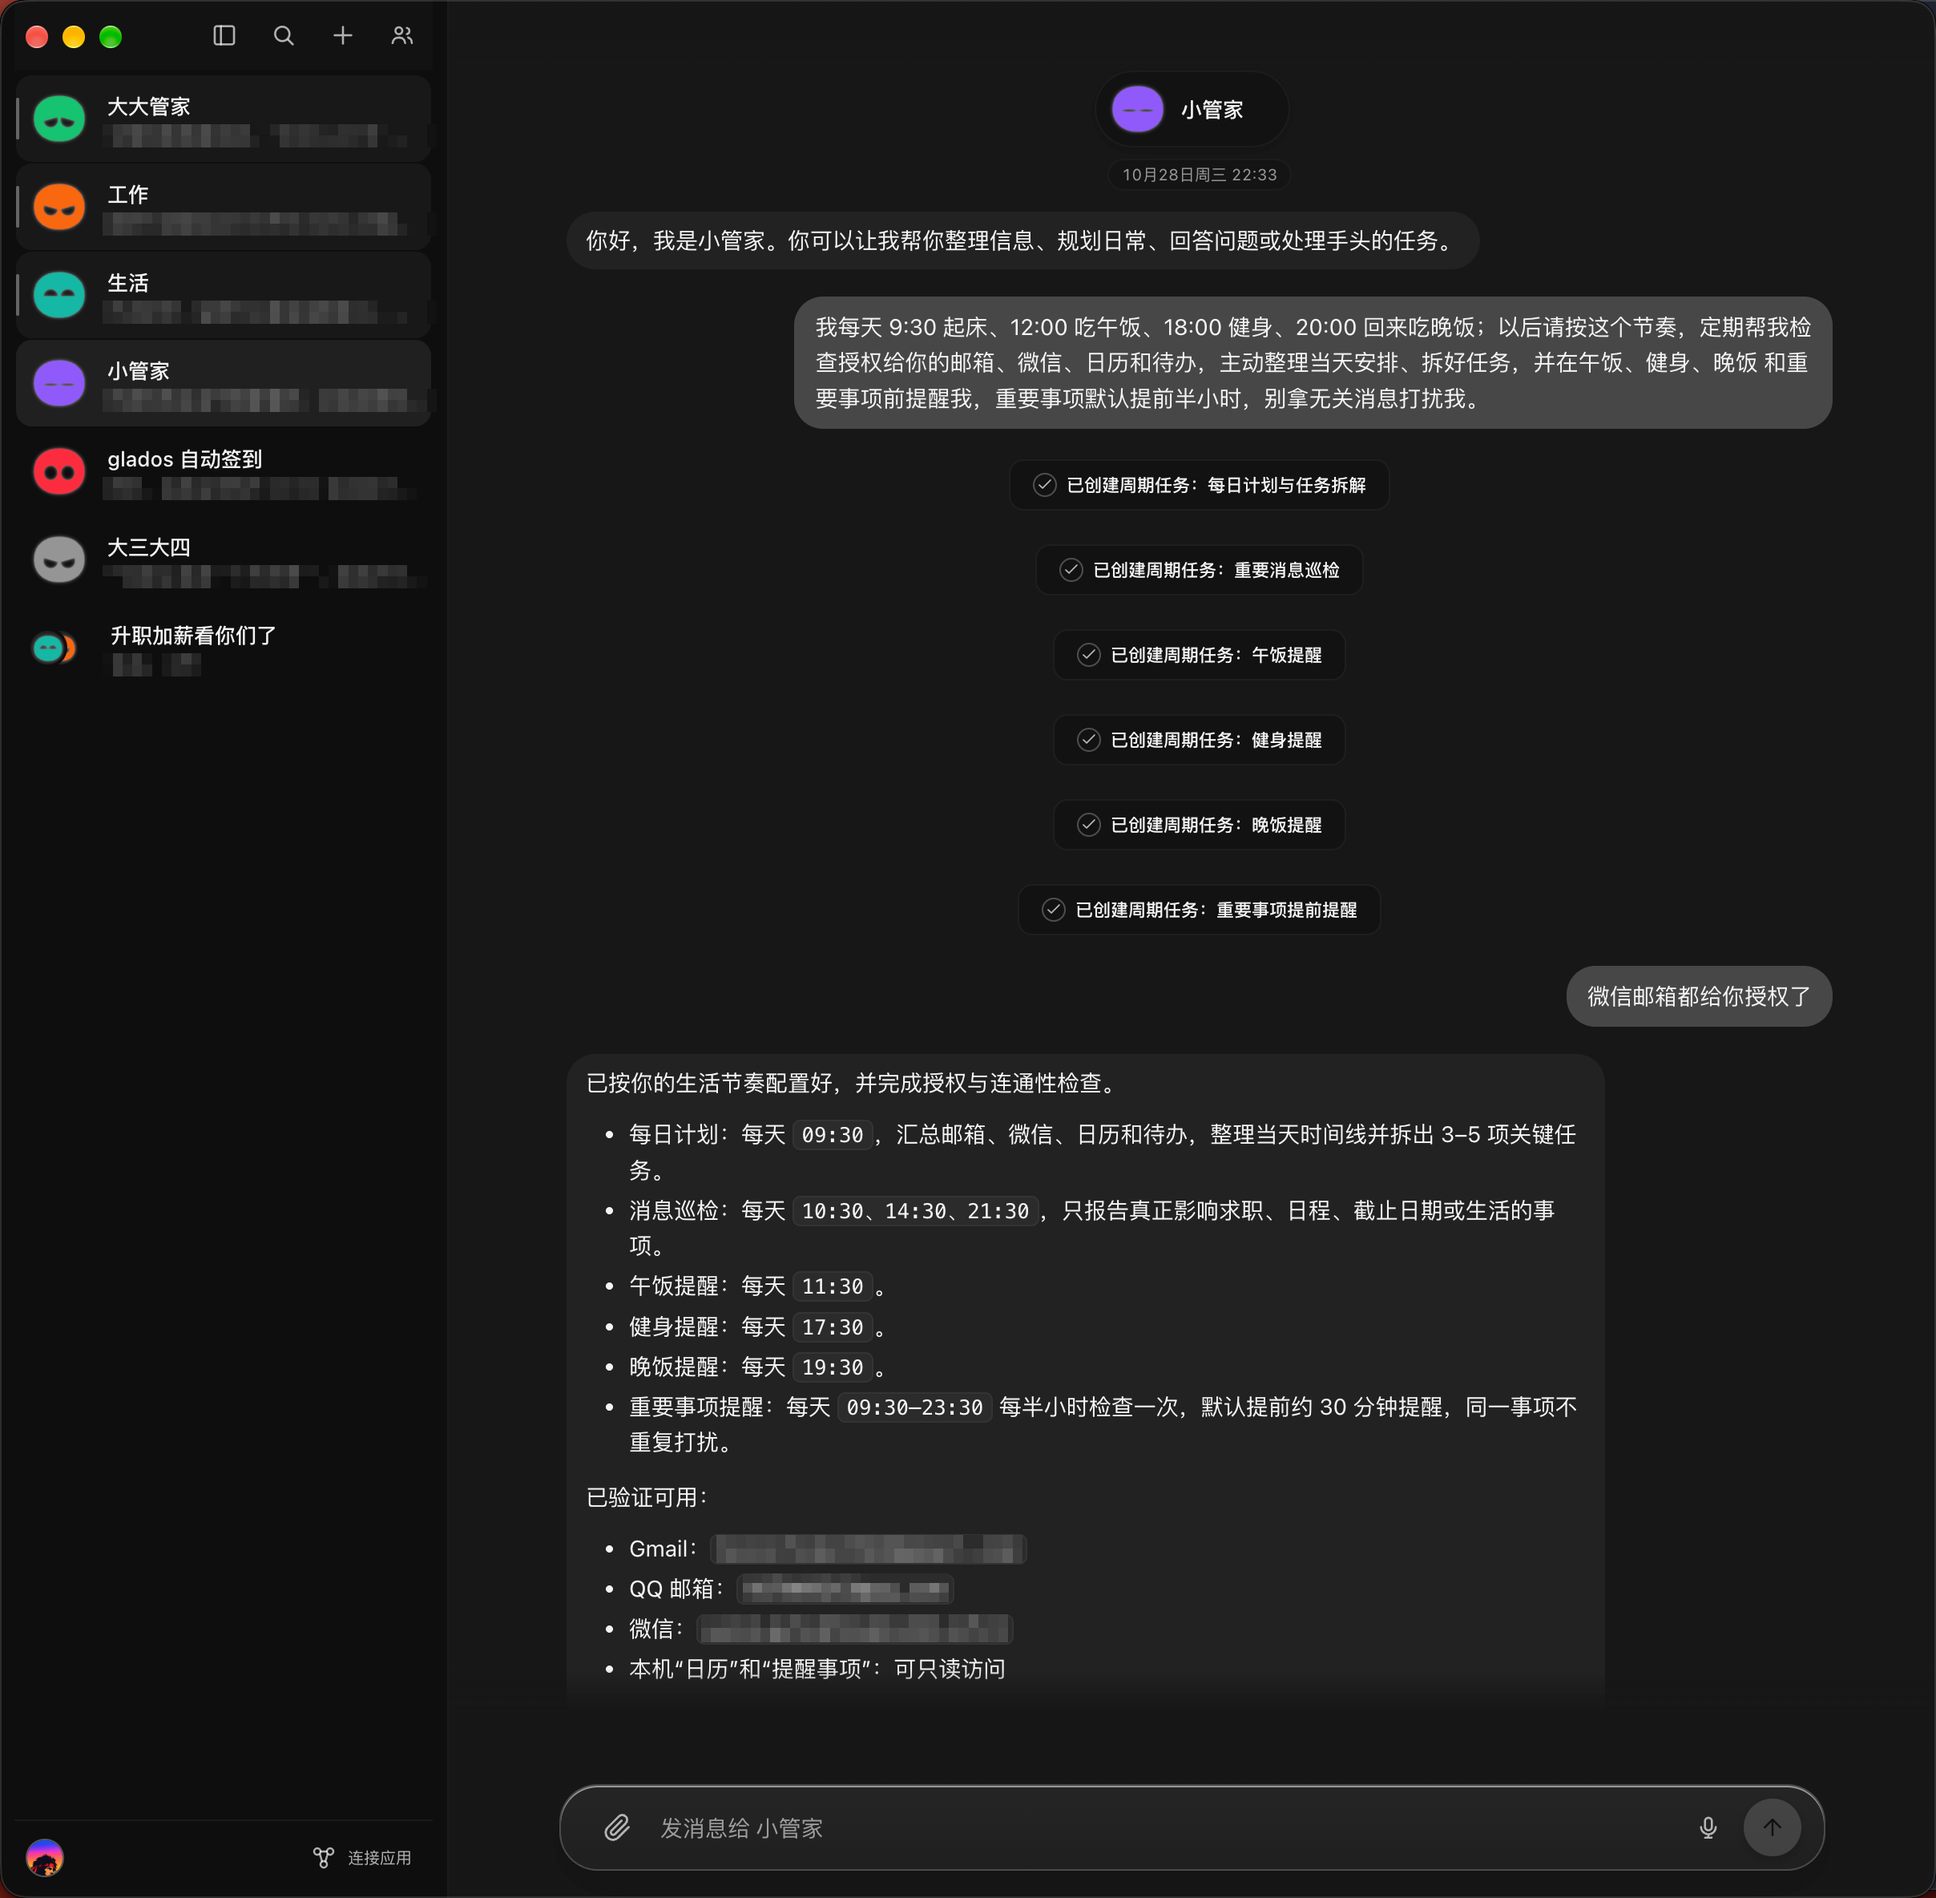
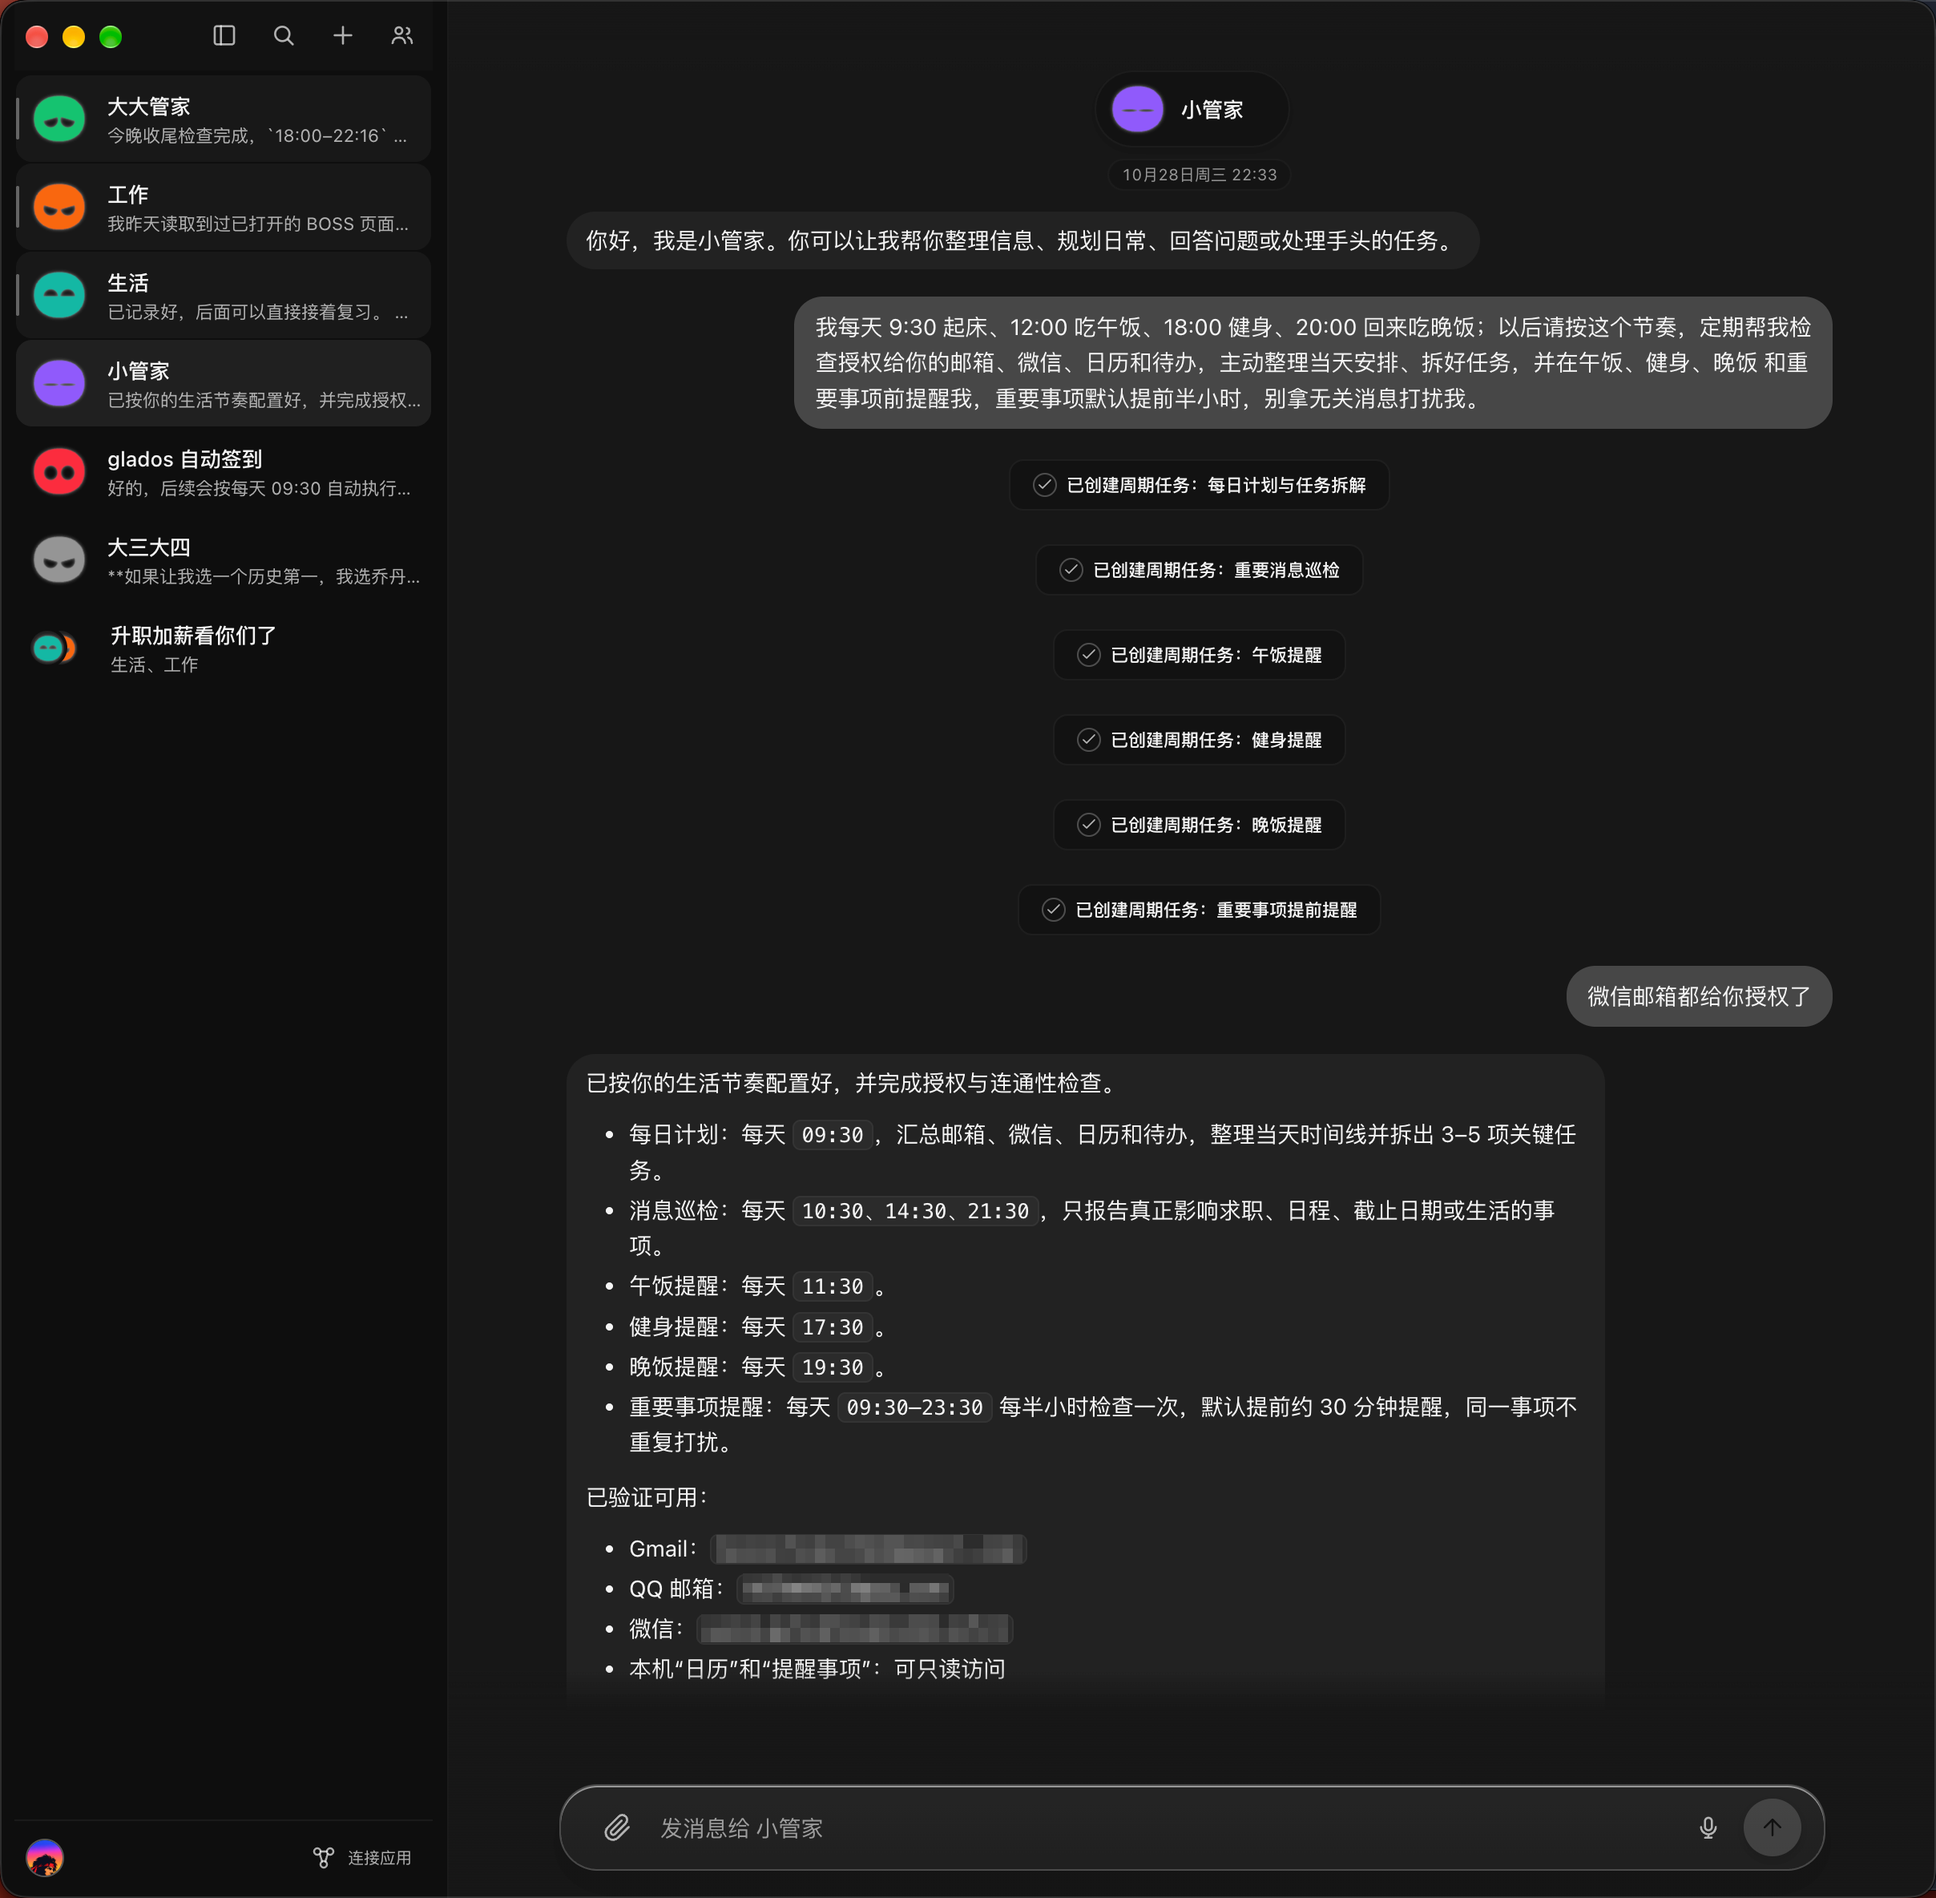
Keep sidebar visible in routines screenshot

diff --git a/README.md b/README.md
@@ -57,7 +57,7 @@ Rambo is built around an interface and interaction study of **Grok Bot**, recons
 
 <p align="center"><sub>When local access is configured and granted, ask a Bot for a recent WeChat summary without moving the source database into a hosted service.</sub></p>
 
-<p align="center"><sub>Personal conversation content and account identifiers are redacted in these screenshots.</sub></p>
+<p align="center"><sub>Account identifiers are redacted in these screenshots.</sub></p>
 
 ## Highlights
 

diff --git a/README.zh-CN.md b/README.zh-CN.md
@@ -57,7 +57,7 @@ Rambo 的界面与交互基于对 **Grok Bot** 桌面端的反编译和界面研
 
 <p align="center"><sub>在完成本机访问配置和授权后，可以让 Bot 汇总最近的微信会话，不需要把原始数据库交给云端服务。</sub></p>
 
-<p align="center"><sub>截图中的个人会话内容与账号标识已遮挡。</sub></p>
+<p align="center"><sub>截图中的账号标识已遮挡。</sub></p>
 
 ## 功能亮点
 
